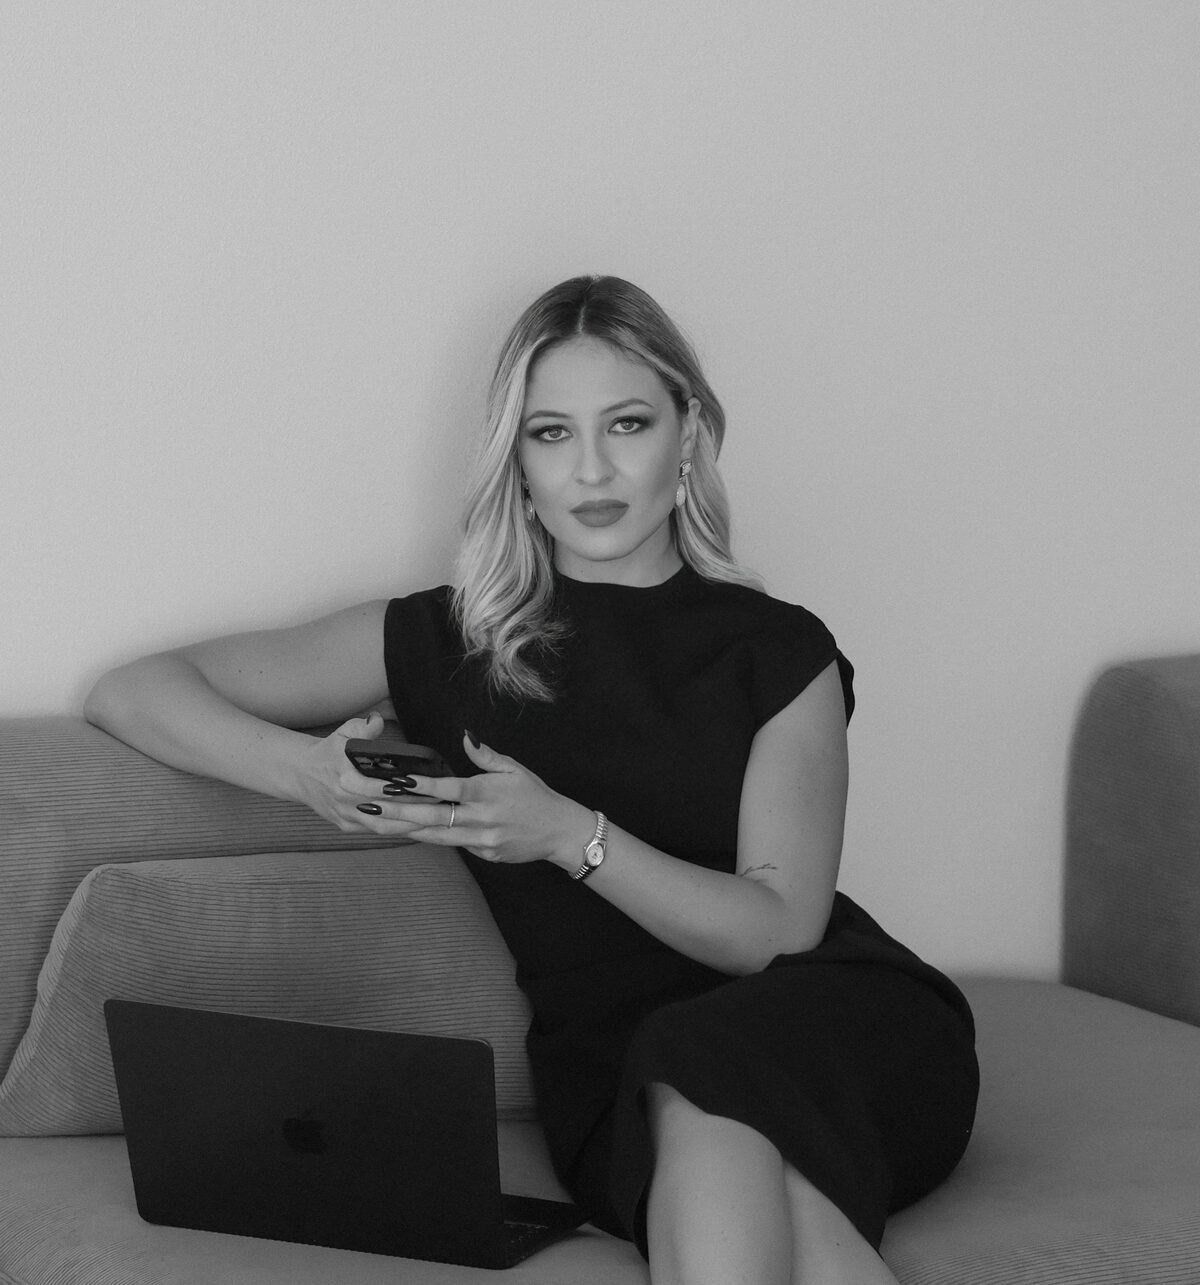
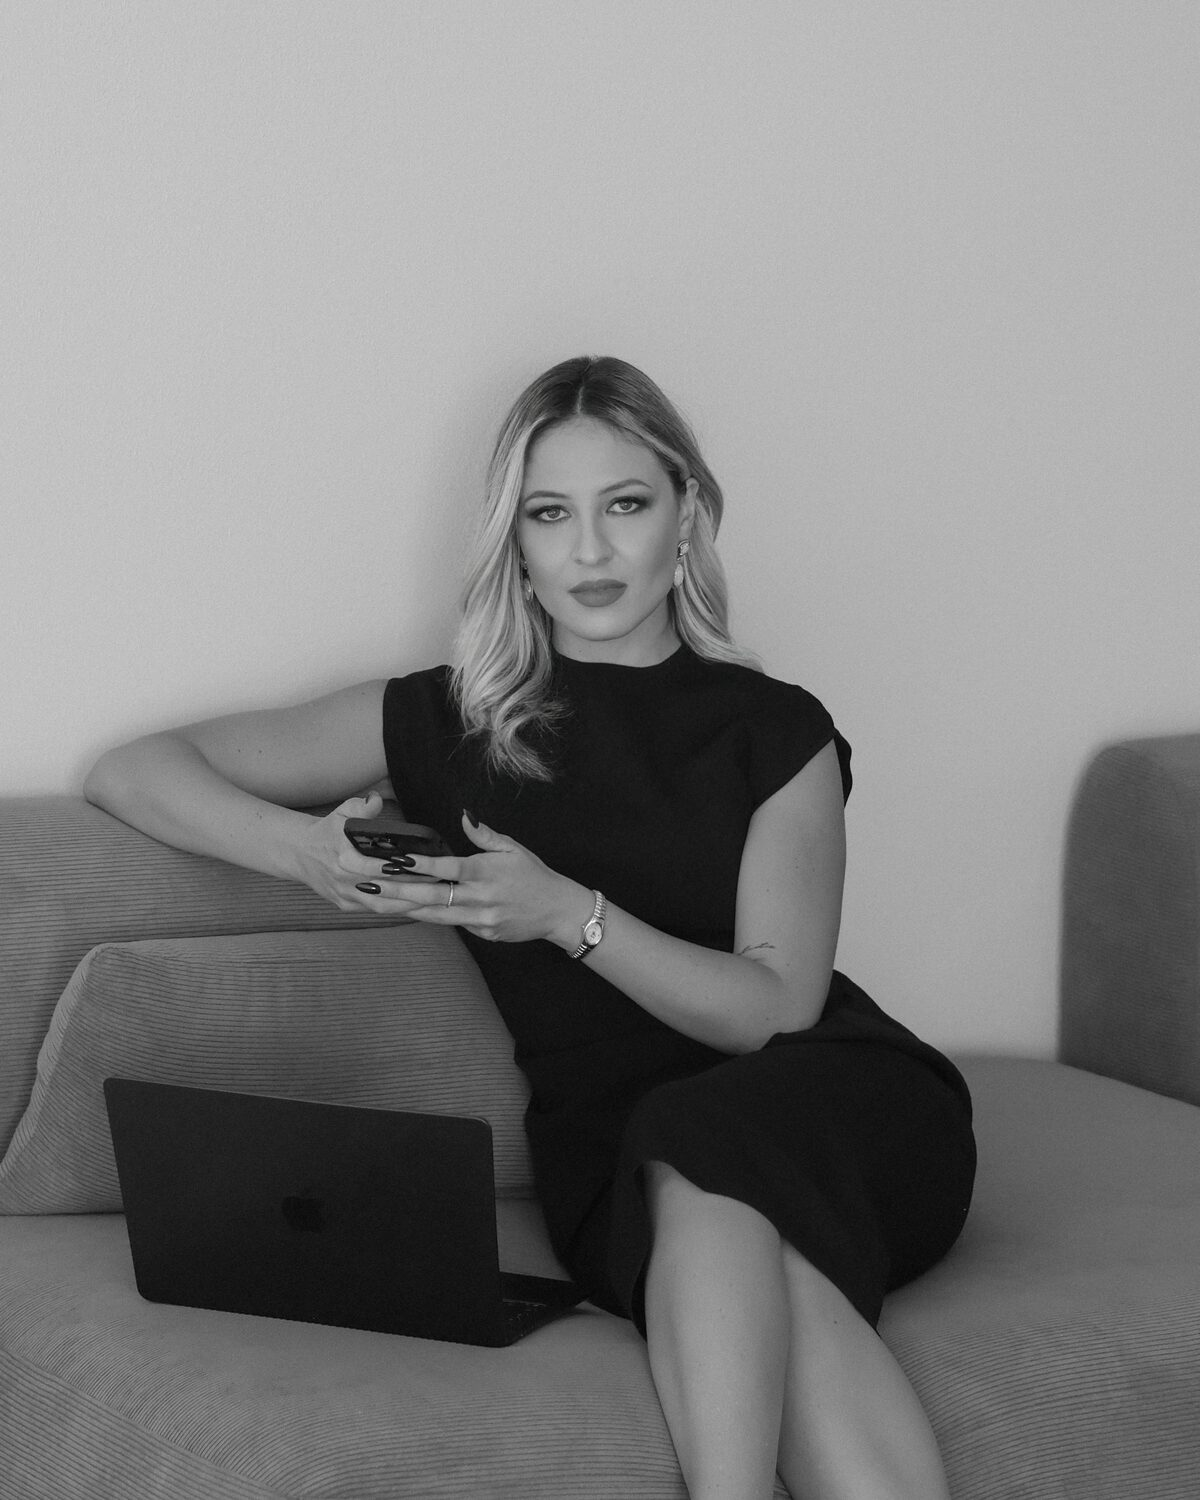
Revert About page photo to previous photo.jpeg version
Reverting the most recent photo swap per request -- back to the
version from commit b3aff6a.

Claude-Session: https://claude.ai/code/session_01Kr3bomLmjM8ZmYv8en5obr

Changed region(s): [[0.0, 0.2179, 1.0, 1.0], [0.9558, 0.9339, 1.0, 1.0], [0.0, 0.965, 0.1233, 1.0]]

diff --git a/about.html b/about.html
@@ -75,7 +75,7 @@
 <section class="founder-hero">
   <div class="founder-hero-body">
     <div class="founder-hero-photo reveal">
-      <img src="assets/portrait-story.jpg" alt="Dr. Alina Schulhofer, Founder of Architecture of Excellence™" style="object-position:50% 25%;" />
+      <img src="assets/portrait-story.jpg" alt="Dr. Alina Schulhofer, Founder of Architecture of Excellence™" style="object-position:50% 15%;" />
     </div>
 
     <div class="founder-hero-text reveal" data-delay="2">
